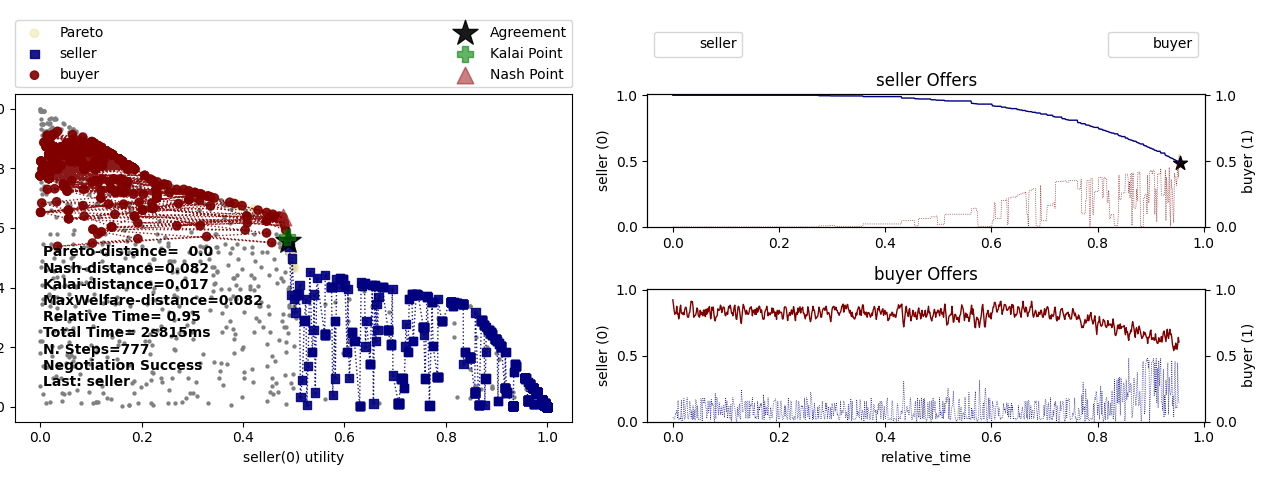
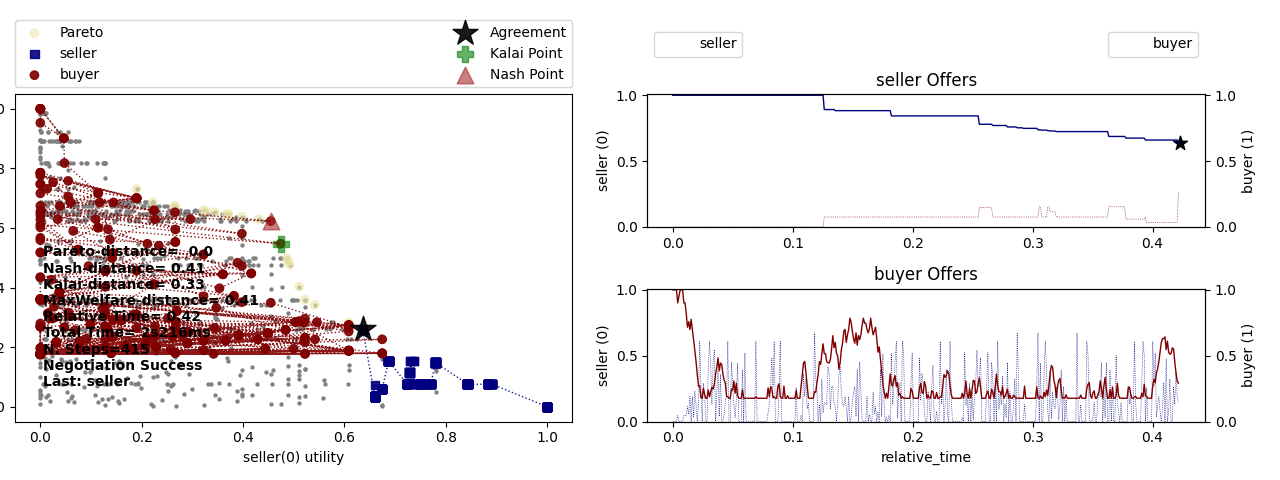
update

diff --git a/myagent/train.py b/myagent/train.py
@@ -153,19 +153,12 @@ def cal_reward(episode, idx, neg, session, state_history, action_history):
         done = 1
     else:
         reward = 0
-        if ((state_history[idx][5] + action_history[idx][0]) < neg.nash_points()[0] - (0.2 / (episode // 100 + 1))
-                and action_history[idx][0] < 0):
-            reward -= 1
-        # if state_history[idx][0] > 0.8:
-        #     reward = - math.exp(state_history[idx][0] - 0.8)
-        # else:
-        #     reward = 0
-        # if (state_history[idx][5] + action_history[idx][0]) < state_history[idx][1] - 0.1:
-        #     if action_history[idx][0] < 0:
-        #         reward += math.exp(2 * (state_history[idx][1] - (state_history[idx][5] + action_history[idx][0])))
-        # else:
-        #     if action_history[idx][0] > 0:
-        #         reward += 0.2
+        # if ((state_history[idx][5] + action_history[idx][0]) < neg.nash_points()[0] - (0.2 / (episode // 100 + 1))
+        #         and action_history[idx][0] < 0):
+        #     if state_history[idx][0] == 0 and random.random() < 0.5:
+        #         reward -= 1
+        #     if state_history[idx][0] == 1 and random.random() < 0.33:
+        #         reward -= 1
         done = 0
 
     return reward, done
@@ -299,20 +292,20 @@ def train(SACagent, Buffer, num_episodes, minimal_size, batch_size, update_inter
         rewards.append(reward)
 
         if Buffer.size() > minimal_size:
-            for i in range(3):
-                b_s, b_a, b_r, b_ns, b_d = Buffer.sample(batch_size)
-                # logging.warning(f"zero rate: {b_r.count(0) / len(b_r)}")
-                transition_dict = {'states': b_s, 'actions': b_a, 'next_states': b_ns, 'rewards': b_r, 'dones': b_d}
-                SACagent.update(transition_dict)
+            b_s, b_a, b_r, b_ns, b_d = Buffer.sample(batch_size)
+            logging.warning(f"zero rate: {b_r.count(0) / len(b_r)}")
+            transition_dict = {'states': b_s, 'actions': b_a, 'next_states': b_ns, 'rewards': b_r, 'dones': b_d}
+            SACagent.update(transition_dict)
 
         if episode % update_interval == 0:
             _rw = sum(rewards) / len(rewards)
             record_rw.append(_rw)
-            logging.warning(f"Reward: {_rw}")
+            logging.warning(f"\nReward: {_rw}")
             if _rw > best_reward:
                 best_reward = _rw
             rewards = []
 
+            logging.warning(f"Success % = {len(distances) / (len(distances) + len(distances_fail))}")
             if distances:
                 _dis = sum(distances) / len(distances)
                 logging.warning(f"Success Distance to Nash: {_dis}")
@@ -327,6 +320,7 @@ def train(SACagent, Buffer, num_episodes, minimal_size, batch_size, update_inter
             else:
                 logging.warning(f"Fail Distance to Nash: No")
                 distances_fail = []
+
 
             session.plot(ylimits=(0.0, 1.01), show_reserved=False, mark_max_welfare_points=False)
             plt.savefig(f'figs/episode_{episode}_pos_{pos[0]}.png')
@@ -369,12 +363,12 @@ if __name__ == "__main__":
     agent = SACContinuous()
     Buffer = ReplayBuffer(capacity=10000)
 
-    num_episodes = 1000
+    num_episodes = 10000
     minimal_size = 1000
     batch_size = 256
     update_interval = 10
-    test_interval = 20
-    save_interval = 20
+    test_interval = 100
+    save_interval = 100
 
     train(agent, Buffer, num_episodes, minimal_size, batch_size, update_interval, test_interval, save_interval)
 

diff --git a/myagent/myagent.py b/myagent/myagent.py
@@ -162,7 +162,7 @@ class MyNegotiator(SAONegotiator):
     def get_state_space(self, state):
         if self.mode == 'test':
             return (
-                state.relative_time,
+                0 if state.relative_time <= 0.75 else 1,
                 # self.nash_point[0],
                 # self.nash_point[1],
                 self.history_utility_op_offer_op[-3],
@@ -178,7 +178,7 @@ class MyNegotiator(SAONegotiator):
             )
         else:
             return (
-                state.relative_time,
+                0 if state.relative_time <= 0.75 else 1,
                 # self.nash_point[0],
                 # self.nash_point[1],
                 self.history_utility_op_offer_op[-3],
